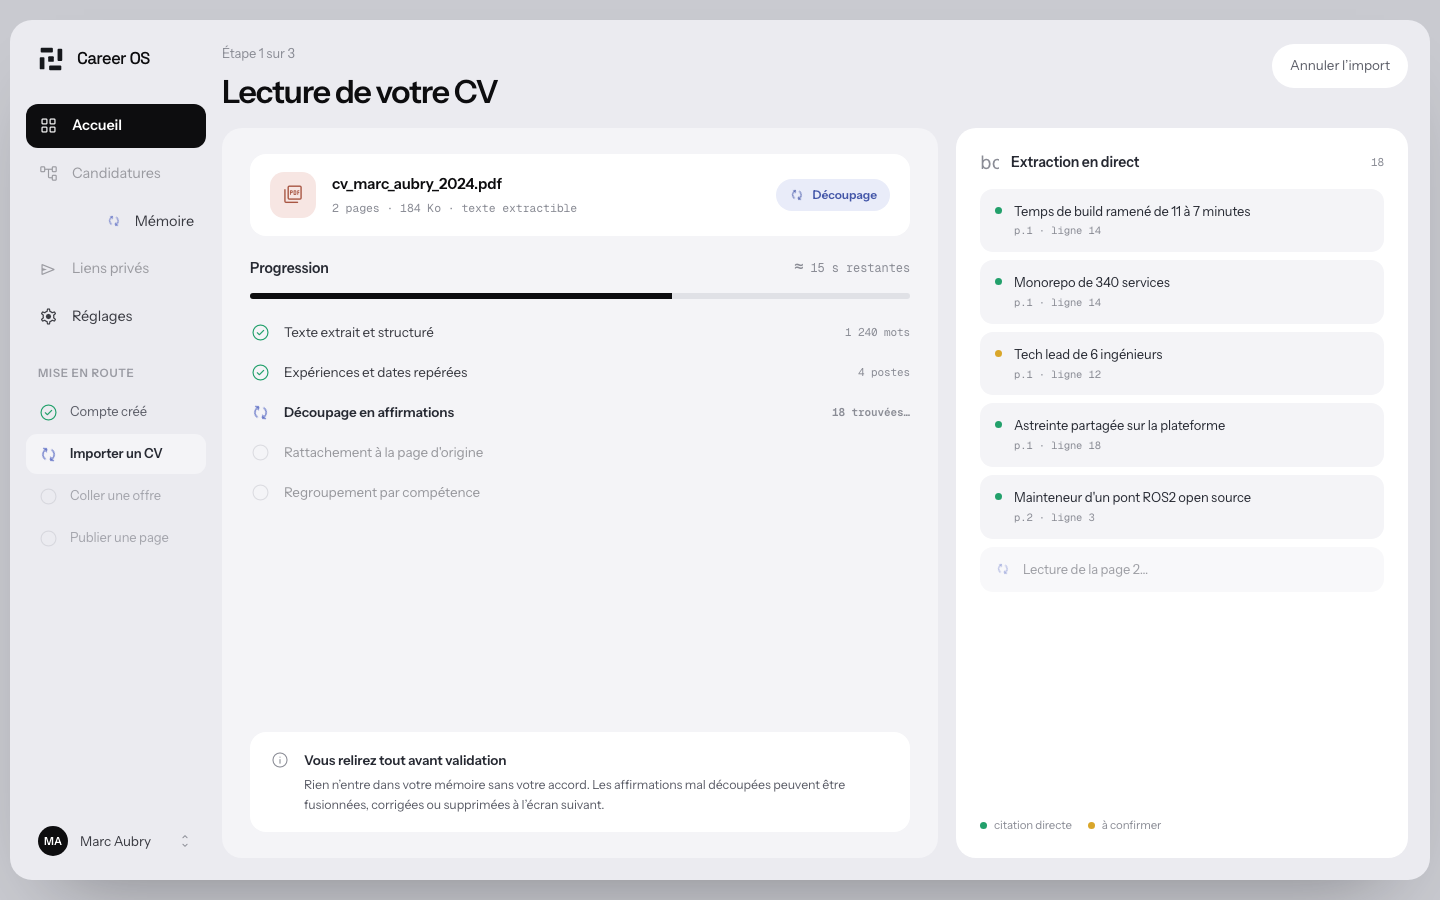
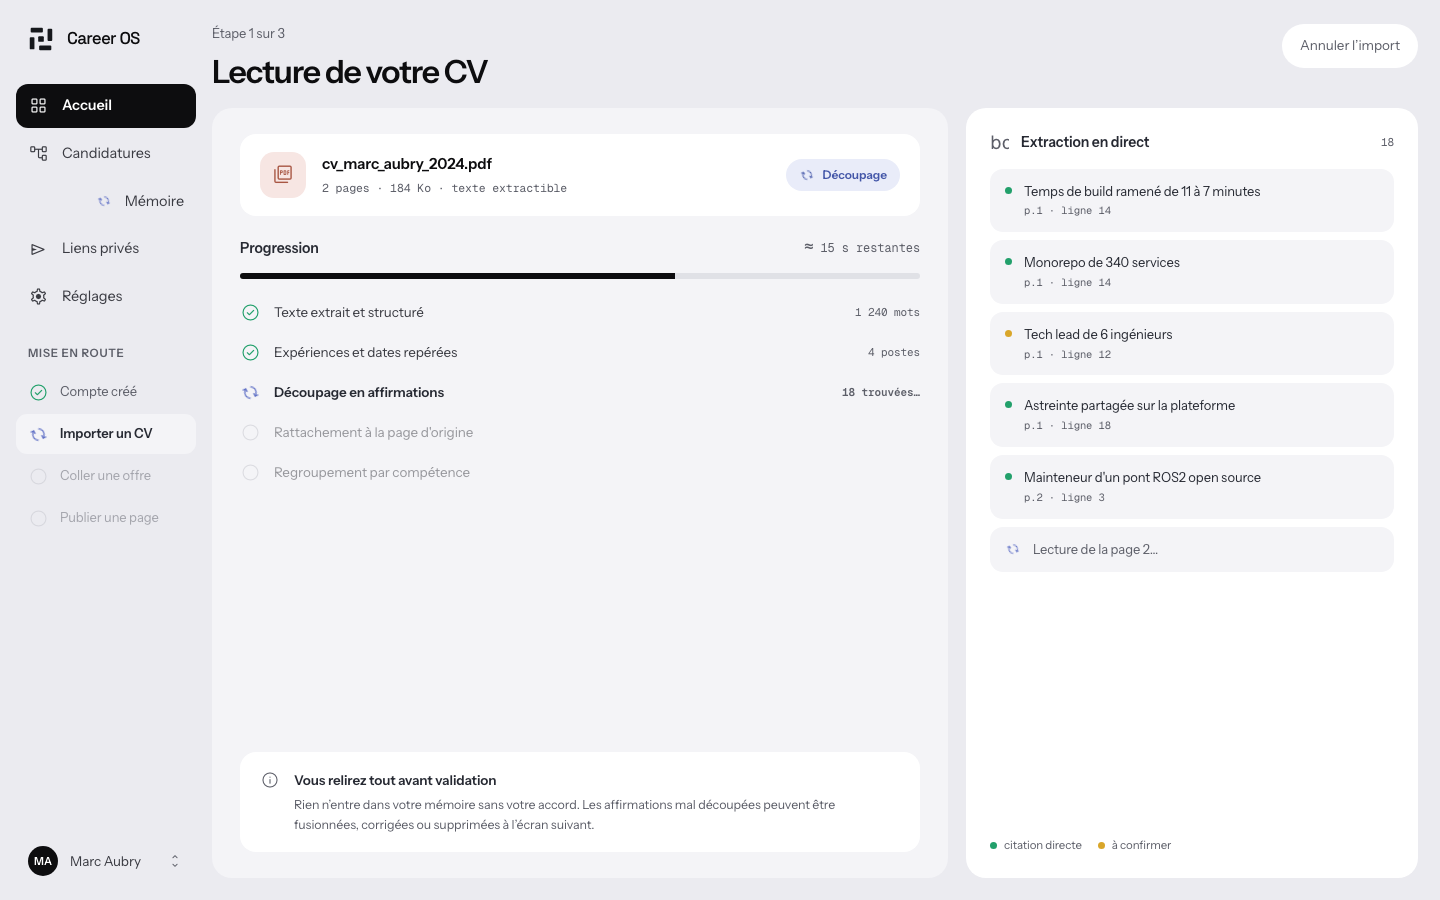
fix: harden the first-screen responsive shell
What:
- switch the import screen to the compact single-column layout below 1120px
- replace decorative navigation rows with real links to existing product routes
- add keyboard focus treatments and raise active microcopy to the existing muted contrast token
- remove the outer preview frame so the application shell is edge-to-edge at every viewport
- refresh desktop/mobile visual proof and preserve the verbatim brand README from formatting

Why:
- prevent the fixed 452px extraction rail from crushing the main panel at tablet widths
- make visible navigation genuinely interactive and keyboard-operable
- keep small informational copy readable and the live product free of a fake mockup border

Proof:
- pnpm check (format, lint, typecheck, 144 unit tests)
- pnpm build
- Playwright screen-contract on Chromium desktop and iPhone 13 profiles: 14 passed
- dedicated 1024x768 assertions cover compact mode and horizontal overflow
- desktop shell assertion proves 0,0 origin and 1440x900 edge-to-edge bounds
- navigation href, focus-visible and muted-token contrast assertions pass

diff --git a/app/memory/import/page.module.css b/app/memory/import/page.module.css
@@ -17,13 +17,12 @@
   --warn: #d9a62a;
   --pdf: #a85643;
   --pdf-soft: #f7e6e3;
-  display: grid;
+  display: block;
   min-height: 100svh;
-  padding: 10px;
+  padding: 0;
   color: var(--ink);
-  background: #c9cad0;
+  background: var(--screen);
   font-family: var(--preview-font-sans), sans-serif;
-  place-items: center;
 }
 
 .canvas *,
@@ -67,13 +66,11 @@
 
 .screen {
   display: grid;
-  width: min(1440px, 100%);
-  min-height: min(860px, calc(100svh - 20px));
+  width: 100vw;
+  min-height: 100svh;
   overflow: hidden;
   grid-template-columns: 212px minmax(0, 1fr);
-  border-radius: 22px;
   background: var(--screen);
-  box-shadow: 0 40px 80px -46px rgb(13 13 15 / 42%);
 }
 
 .sidebar {
@@ -119,6 +116,7 @@
   color: var(--body);
   border-radius: 12px;
   font-size: 14.5px;
+  text-decoration: none;
 }
 
 .navigationItem.active {
@@ -127,15 +125,26 @@
   font-weight: 600;
 }
 
-.navigationItem.disabled {
-  opacity: 0.45;
-}
-
 .navigationItem.running .icon {
   margin-left: auto;
   color: var(--accent);
   font-size: 16px;
   animation: spin 1s linear infinite;
+}
+
+.navigationItem:hover {
+  color: var(--ink);
+  background: var(--fill);
+}
+
+.navigationItem.active:hover {
+  color: var(--surface);
+  background: var(--ink);
+}
+
+.navigationItem:focus-visible {
+  outline: 3px solid var(--accent);
+  outline-offset: 2px;
 }
 
 .icon {
@@ -165,7 +174,7 @@
 
 .setup h2 {
   padding: 0 12px;
-  color: var(--faint);
+  color: var(--muted);
   font-size: 11.5px;
   font-weight: 600;
   letter-spacing: 0.06em;
@@ -249,7 +258,7 @@
 }
 
 .account .icon {
-  color: var(--quiet);
+  color: var(--muted);
   font-size: 18px;
 }
 
@@ -281,7 +290,7 @@
 }
 
 .contentHeader p {
-  color: var(--quiet);
+  color: var(--muted);
   font-size: 13px;
 }
 
@@ -382,7 +391,7 @@
 .stepList small,
 .extraction header > span,
 .extraction li small {
-  color: var(--quiet);
+  color: var(--muted);
   font-family: var(--preview-font-mono), monospace;
   font-variant-numeric: tabular-nums;
 }
@@ -491,7 +500,7 @@
 }
 
 .guardrail > .icon {
-  color: var(--quiet);
+  color: var(--muted);
   font-size: 20px;
 }
 
@@ -534,7 +543,7 @@
 }
 
 .extraction header .icon {
-  color: var(--quiet);
+  color: var(--muted);
   font-size: 19px;
 }
 
@@ -605,7 +614,6 @@
   align-items: center;
   color: var(--muted);
   font-size: 13px;
-  opacity: 0.6;
 }
 
 .reading .icon {
@@ -619,7 +627,7 @@
   margin-top: auto;
   gap: 16px;
   align-items: center;
-  color: var(--quiet);
+  color: var(--muted);
   font-size: 11.5px;
 }
 
@@ -651,7 +659,7 @@
   }
 }
 
-@media (max-width: 899px) {
+@media (max-width: 1119px) {
   .canvas {
     display: block;
     padding: 0;
@@ -773,18 +781,24 @@
     backdrop-filter: blur(16px);
   }
 
-  .mobileNavigation > span {
+  .mobileNavigation > a {
     display: flex;
     min-width: 0;
     gap: 4px;
     align-items: center;
     justify-content: center;
     flex-direction: column;
-    color: var(--quiet);
+    color: var(--muted);
+    text-decoration: none;
   }
 
-  .mobileNavigation > span[aria-current='page'] {
+  .mobileNavigation > a[aria-current='page'] {
     color: var(--ink);
+  }
+
+  .mobileNavigation > a:focus-visible {
+    outline: 3px solid var(--accent);
+    outline-offset: -4px;
   }
 
   .mobileNavigation .icon {

diff --git a/app/memory/import/page.tsx b/app/memory/import/page.tsx
@@ -30,11 +30,18 @@ export const metadata: Metadata = {
 };
 
 const navigation = [
-  ['grid_view', 'Accueil', 'active'],
-  ['account_tree', 'Candidatures', 'disabled'],
-  ['database', 'Mémoire', 'running'],
-  ['send', 'Liens privés', 'disabled'],
-  ['settings', 'Réglages', 'idle'],
+  ['grid_view', 'Accueil', '/', 'active'],
+  ['account_tree', 'Candidatures', '/applications', 'idle'],
+  ['database', 'Mémoire', '/memory', 'running'],
+  ['send', 'Liens privés', '/links', 'idle'],
+  ['settings', 'Réglages', '/settings/models', 'idle'],
+] as const;
+
+const mobileNavigation = [
+  ['grid_view', 'Accueil', '/', true],
+  ['database', 'Mémoire', '/memory', false],
+  ['account_tree', 'Candidatures', '/applications', false],
+  ['settings', 'Réglages', '/settings/models', false],
 ] as const;
 
 const importSteps = [
@@ -90,16 +97,16 @@ export default function ImportCvPage() {
           <Brand />
 
           <nav className={styles.navigation} aria-label="Navigation principale">
-            {navigation.map(([icon, label, state]) => (
-              <div
+            {navigation.map(([icon, label, href, state]) => (
+              <Link
                 aria-current={state === 'active' ? 'page' : undefined}
-                aria-disabled={state === 'disabled' ? 'true' : undefined}
                 className={`${styles.navigationItem} ${styles[state] ?? ''}`}
+                href={href}
                 key={label}
               >
                 <Icon>{state === 'running' ? 'autorenew' : icon}</Icon>
                 <span>{label}</span>
-              </div>
+              </Link>
             ))}
           </nav>
 
@@ -247,18 +254,15 @@ export default function ImportCvPage() {
         </section>
 
         <nav className={styles.mobileNavigation} aria-label="Navigation mobile">
-          {(
-            [
-              ['grid_view', 'Accueil', true],
-              ['database', 'Mémoire', false],
-              ['account_tree', 'Candidatures', false],
-              ['settings', 'Réglages', false],
-            ] as const
-          ).map(([icon, label, active]) => (
-            <span aria-current={active ? 'page' : undefined} key={label}>
+          {mobileNavigation.map(([icon, label, href, active]) => (
+            <Link
+              aria-current={active ? 'page' : undefined}
+              href={href}
+              key={label}
+            >
               <Icon>{icon}</Icon>
               <small>{label}</small>
-            </span>
+            </Link>
           ))}
         </nav>
       </section>

diff --git a/tests/e2e/screen-contract.spec.ts b/tests/e2e/screen-contract.spec.ts
@@ -115,6 +115,67 @@ test('shows a traceable CV import state before human validation', async ({
   await expect(page.getByText('à confirmer', { exact: true })).toBeVisible();
 });
 
+test('keeps the CV import readable at tablet width', async ({ page }) => {
+  await page.setViewportSize({ width: 1024, height: 768 });
+  await page.goto('/memory/import');
+
+  await expect(
+    page.getByRole('navigation', { name: 'Navigation principale' }),
+  ).toBeHidden();
+  const mobileNavigation = page.getByRole('navigation', {
+    name: 'Navigation mobile',
+  });
+  await expect(mobileNavigation).toBeVisible();
+  await expect(mobileNavigation.getByRole('link')).toHaveCount(4);
+  await expect(
+    page.getByRole('heading', { name: 'Extraction en direct' }),
+  ).toBeVisible();
+
+  const overflows = await page.evaluate(
+    () =>
+      document.documentElement.scrollWidth >
+      document.documentElement.clientWidth,
+  );
+  expect(overflows).toBe(false);
+});
+
+test('exposes keyboard navigation and readable informational copy', async ({
+  page,
+}) => {
+  await page.setViewportSize({ width: 1440, height: 900 });
+  await page.goto('/memory/import');
+
+  const desktopNavigation = page.getByRole('navigation', {
+    name: 'Navigation principale',
+  });
+  const links = desktopNavigation.getByRole('link');
+  await expect(links).toHaveCount(5);
+  await expect(links.nth(0)).toHaveAttribute('href', '/');
+  await expect(links.nth(1)).toHaveAttribute('href', '/applications');
+  await expect(links.nth(2)).toHaveAttribute('href', '/memory');
+  await expect(links.nth(3)).toHaveAttribute('href', '/links');
+  await expect(links.nth(4)).toHaveAttribute('href', '/settings/models');
+
+  const shell = await page
+    .getByRole('region', { name: 'Import du CV en cours' })
+    .boundingBox();
+  expect(shell).toMatchObject({ x: 0, y: 0, width: 1440, height: 900 });
+
+  await page.keyboard.press('Tab');
+  await expect(page.getByText('Aller à la progression')).toBeFocused();
+  await page.keyboard.press('Tab');
+  await expect(links.first()).toBeFocused();
+  await expect(links.first()).toHaveCSS('outline-style', 'solid');
+
+  for (const copy of [
+    page.getByText('Étape 1 sur 3'),
+    page.getByText('≈ 15 s restantes'),
+    page.getByText('citation directe', { exact: true }),
+  ]) {
+    await expect(copy).toHaveCSS('color', 'rgb(92, 94, 104)');
+  }
+});
+
 test('shows the privacy-safe expired-link screen', async ({ page }) => {
   await page.goto('/p/unknown-capability');
   await expect(

diff --git a/docs/build-in-public/cv-import-first-screen.md b/docs/build-in-public/cv-import-first-screen.md
@@ -33,5 +33,5 @@ on the viewer's local font availability.
 The new artifact defines this screen's desktop visual language but does not
 include an updated global design-system document or a dedicated mobile V1.
 Desktop values therefore follow the artifact. Mobile follows the existing
-handoff rule of a single content column below 900 px with bottom navigation;
+handoff rule of a single content column below 1120 px with bottom navigation;
 it remains a functional adaptation to validate with the designer.
